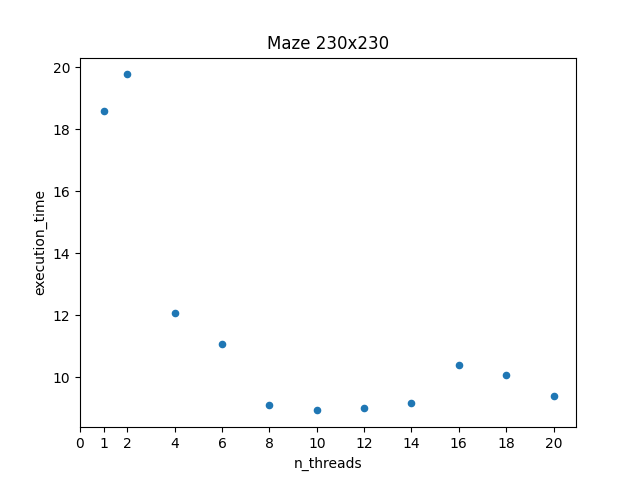
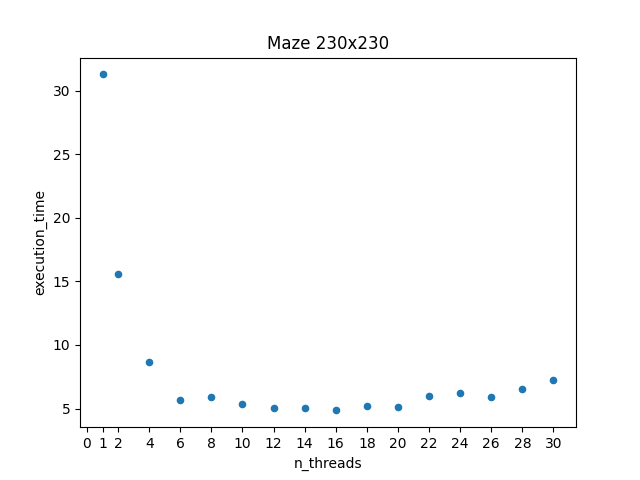
Results

diff --git a/results_postproc/graphs.py b/results_postproc/graphs.py
@@ -12,7 +12,7 @@ def graphs_fixed_n_particles(df, n_particles):
         maze_size = maze_df["maze_size"].iloc[0]
         maze_df.plot(x="n_threads", y="execution_time", kind="scatter",
                      title=f"Maze {maze_size}, {n_particles=}",
-                     xticks=np.concatenate((np.array([1]), np.arange(0, 22, 2))))
+                     xticks=np.concatenate((np.array([1]), np.arange(0, 32, 2))))
         plt.savefig(f"plots/maze_{maze_size}_{n_particles=}.png")
 
 def graphs_linear_n_particles(df):
@@ -22,7 +22,7 @@ def graphs_linear_n_particles(df):
         maze_size = maze_df["maze_size"].iloc[0]
         maze_df.plot(x="n_threads", y="execution_time", kind="scatter",
                      title=f"Maze {maze_size}, n_particles=n_threads",
-                     xticks=np.concatenate((np.array([1]), np.arange(0, 22, 2))))
+                     xticks=np.concatenate((np.array([1]), np.arange(0, 32, 2))))
         plt.savefig(f"plots/maze_{maze_size}_n_particles=n_threads.png")
 
 
@@ -34,7 +34,7 @@ def graphs_all_particles_and_speedup(df):
         plt.figure()
         maze_df.plot(x="n_threads", y="execution_time", kind="scatter",
                      title=f"Maze {maze_size}",
-                     xticks=np.concatenate((np.array([1]), np.arange(0, 22, 2))))
+                     xticks=np.concatenate((np.array([1]), np.arange(0, 32, 2))))
         plt.savefig(f"plots/maze_{maze_size}.png")
         plt.close()
 
@@ -44,7 +44,7 @@ def graphs_all_particles_and_speedup(df):
         speedup = sequential_exec_time / maze_df["execution_time"]
         plt.scatter(maze_df["n_threads"], speedup, color="orange")
         plt.title(f"Speedup maze {maze_size}")
-        plt.xticks(np.concatenate((np.array([1]), np.arange(0, 22, 2))))
+        plt.xticks(np.concatenate((np.array([1]), np.arange(0, 32, 2))))
         for t, s in zip(maze_df["n_threads"], speedup):
             ax.annotate(f"  {s:.2}", xy=(t, s), xytext=(t, s), xycoords='data')
         plt.savefig(f"plots/speedup_maze_{maze_size}.png")
